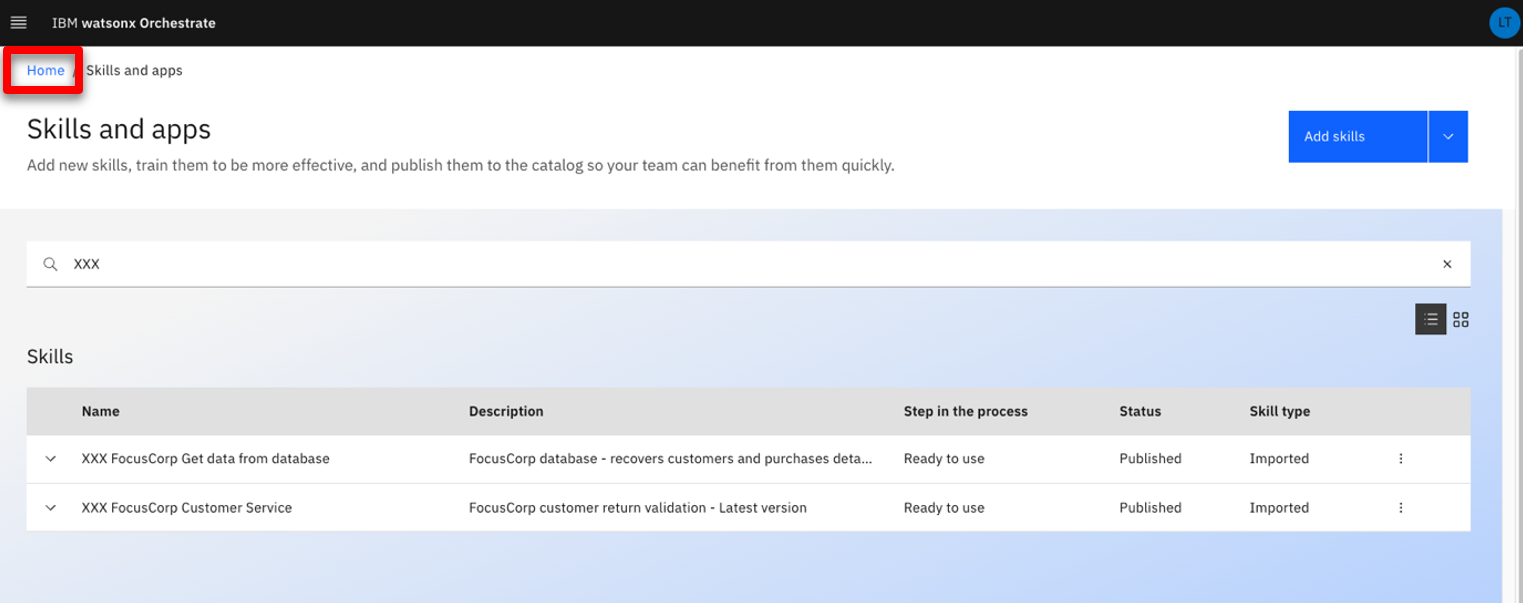
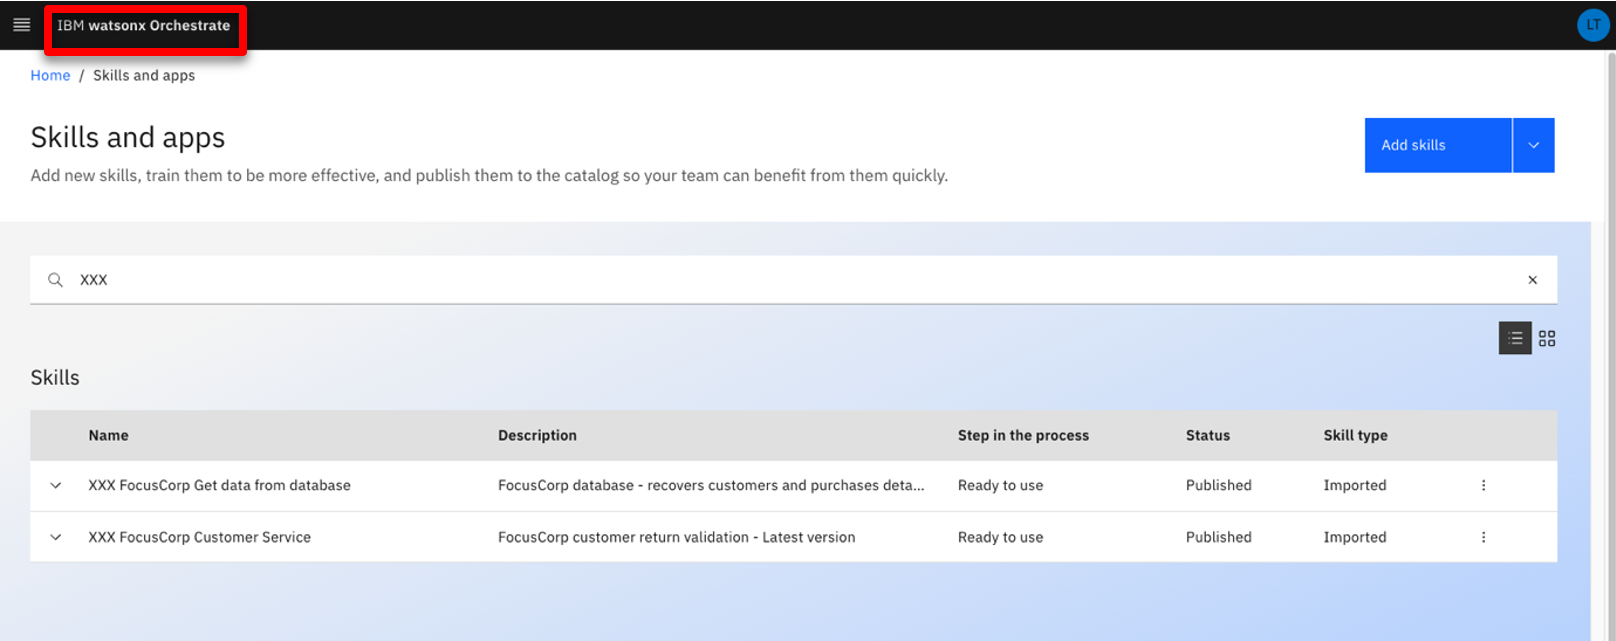
UI update on PREP

diff --git a/docs/300-digital-labor-leveraging-odm-decisions-in-watsonx-orchestrate/demo-preparation.md b/docs/300-digital-labor-leveraging-odm-decisions-in-watsonx-orchestrate/demo-preparation.md
@@ -422,7 +422,7 @@ We are also going to update the server URL with the URL of your own ODM Rule Exe
 
 15. Repeat from **Step 5** and import the **XXX FocusCorp Customer Service.json** file. <br/>
 
-16. Click **Home**. <br/> <img src="images/Prep-5-2-16.png" width="800" /><br/>
+16. Click **IBM watsonx Orchestrate**. <br/> <img src="images/Prep-5-2-16.png" width="800" /><br/>
 
 <br/>
 
@@ -450,7 +450,7 @@ We are also going to update the server URL with the URL of your own ODM Rule Exe
 
 6. Click **Add skill +**. <br/> <img src="images/Prep-5-3-6.png" width="800" /><br/>
 
-7. Check that your skill is added. Click **Home**. <br/> <img src="images/Prep-5-3-7.png" width="800" /><br/>
+7. Check that your skill is added. Click **IBM watsonx Orchestrate**. <br/> <img src="images/Prep-5-3-7.png" width="800" /><br/>
 
 8. Repeat from **Step 1** and add the **XXX FocusCorp Customer Service** skill. <br/>
 
@@ -509,7 +509,7 @@ After each demo, you must remove the **New XXX FC FocusCorp Customer Service** s
 
 6. Repeat from **Step 4** and delete the **New XXX FC Customer Service** skill. <br/> <img src="images/Prep-6-1-6.png" width="800" /><br/>
 
-7. Click **Home**. <br/> <img src="images/Prep-6-1-7.png" width="800" /><br/>
+7. Click **IBM watsonx Orchestrate**. <br/> <img src="images/Prep-6-1-7.png" width="800" /><br/>
 
 8. You are now ready to demo again. <br/> <img src="images/Prep-6-1-8.png" width="800" /><br/>
 <inline-notification text="Only the 2 FocusCorp skills imported from the Jason files and recognizable with their FocusCorp icon should remain in your skill set."></inline-notification>
